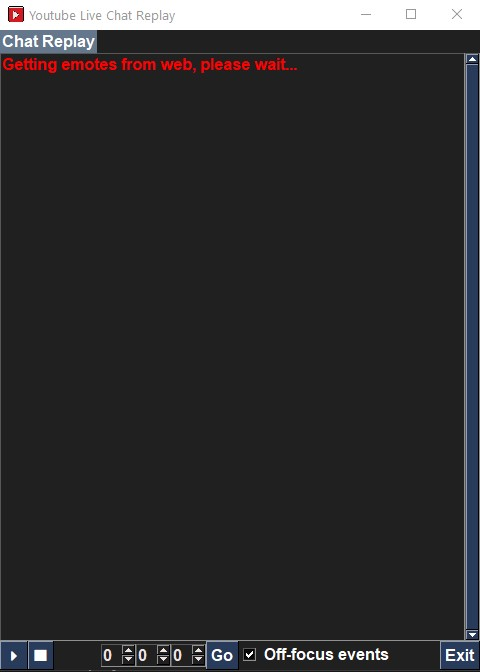
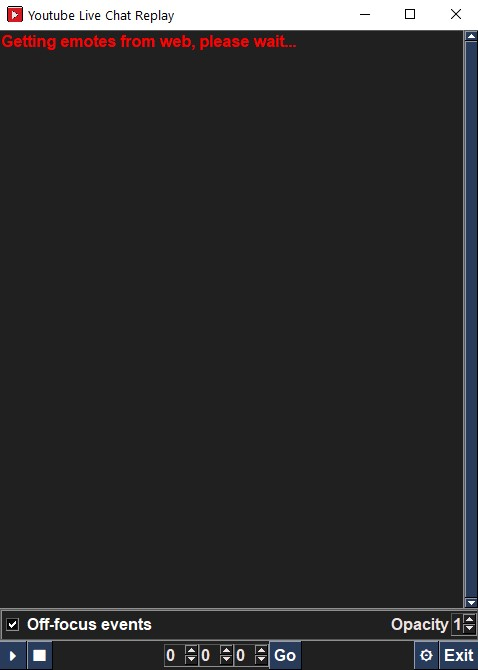
Changes:
- UI cleanup, more options, event listener and global flag variable refactoring.

- Removed the chat window title.

- Initial settings changes: Titlebar now enabled by default and highlight color changed to purple for visibility.

- Added options button and UI for off-focus events and opacity changes.

- New options for condensed chat and ignoring user messages, check the README.

- Refactored the leyboard event listener out of the gui.py module and improved the handling of the global flags required by having them in their own module as well.

- Restructured the code as needed due to the changes and updated documentation.

diff --git a/local/gui.py b/local/gui.py
@@ -8,31 +8,12 @@ import tkinter as tk
 
 import local.chat as chat
 import local.config as config
+import local.globals as globals
 import local.user_messages as user_messages
 
 from PIL.ImageTk import PhotoImage
 from pynput.keyboard import Key, Listener  # pip install pynput
 import PySimpleGUI as sg  # pip install PySimpleGUI
-
-
-key_event = False  # Global var used to track if the Play/Pause/Resume key was pressed, since GUI and event listener are in different threads.
-off_focus_events = True  # Global var used to turn on/off off-focus event listener.
-
-
-def on_press(key:str) -> None:
-    '''Modify the global variable "key_event" if the specified play/pause key is pressed.'''
-
-    global key_event
-    global off_focus_events
-    if key == Key.space and off_focus_events:
-        key_event = False if key_event else True
-
-
-def listen_kb() -> None:
-    '''Event listener for keyboard events. Needs to be in a separate thread to the GUI, so they can coexist.'''
-
-    with Listener(on_press=on_press) as listener:
-        listener.join()
 
 
 def get_icon():
@@ -55,7 +36,9 @@ def data_selection_window(settings:dict[str, str|int|tuple[int,int]|bool]) -> di
         "use local emotes": False,
         "emote dir path": None,
         "highlight users": False,
-        "user path": None
+        "user path": None,
+        "ignore users": False,
+        "ignore user path": None
     }
 
     layout = [
@@ -75,6 +58,12 @@ def data_selection_window(settings:dict[str, str|int|tuple[int,int]|bool]) -> di
                         enable_events=True, background_color=settings["BG_COLOR"]), 
             sg.Input("", readonly=True, key="-USER_PATH-", expand_x=True), 
             sg.Button("Browse", key="-BROWSE_USER_HIGHLIGHT-")
+        ],
+        [
+            sg.Checkbox("Ignore users in file:", key="-IGNORE_USERS-", 
+                        enable_events=True, background_color=settings["BG_COLOR"]), 
+            sg.Input("", readonly=True, key="-IGNORE_USER_PATH-", expand_x=True), 
+            sg.Button("Browse", key="-BROWSE_USER_IGNORE-")
         ],
         [sg.Button("Start"), sg.Push(background_color=settings["BG_COLOR"]), sg.Button("Exit")]
     ]
@@ -104,17 +93,26 @@ def data_selection_window(settings:dict[str, str|int|tuple[int,int]|bool]) -> di
                 if users_to_highlight:
                     data_window["-USER_PATH-"].update(users_to_highlight)
                     data["user path"] = Path(users_to_highlight)
+            case "-BROWSE_USER_IGNORE-":
+                users_to_ignore = sg.popup_get_file('', no_window= True, file_types=(("text file", "*.txt*"),))
+                if users_to_ignore:
+                    data_window["-IGNORE_USER_PATH-"].update(users_to_ignore)
+                    data["ignore user path"] = Path(users_to_ignore)
             case "-USE_LOCAL_EMOTES-":
                 data["use local emotes"] = True if values["-USE_LOCAL_EMOTES-"] else False
             case "-HIGHLIGHT_USERS-":
                 data["highlight users"] = True if values["-HIGHLIGHT_USERS-"] else False
+            case "-IGNORE_USERS-":
+                data["ignore users"] = True if values["-IGNORE_USERS-"] else False
             case "Start":
                 if data["json path"] is None:
                     user_messages.one_line_error_handler("Please specify the JSON file path.", settings)
                 elif data["use local emotes"] and data["emote dir path"] is None:
                     user_messages.one_line_error_handler("Please specify the emote directory.", settings)
                 elif data["highlight users"] and data["user path"] is None:
-                    user_messages.one_line_error_handler("Please specify the username file.", settings)
+                    user_messages.one_line_error_handler("Please specify the highlight username file.", settings)
+                elif data["ignore users"] and data["ignore user path"] is None:
+                    user_messages.one_line_error_handler("Please specify the ignore username file.", settings)
                 else:
                     data["exit"] = False
                     break
@@ -144,13 +142,21 @@ def display_chat(chat_window:sg.Multiline,
         if usernames_to_highlight:
             if comment[1] in usernames_to_highlight:
                 bg_color = settings["HIGHLIGHT_USER_BG_COLOR"]
-
-        chat_window.update(f"{comment[0]:<12} ", append=True, 
-                        text_color_for_value=settings["TIMESTAMP_COLOR"], 
-                        background_color_for_value=bg_color)
-        chat_window.update(f"{comment[1]}\n", append=True, 
+        if settings["SHOW_TIMESTAMP"]:
+            chat_window.update(f"{comment[0]:<12} ", append=True, 
+                            text_color_for_value=settings["TIMESTAMP_COLOR"], 
+                            background_color_for_value=bg_color)
+        chat_window.update(f"{comment[1]}:", append=True, 
                         text_color_for_value=settings["USERNAME_COLOR"], 
                         background_color_for_value=bg_color)
+        if settings["CONDENSED"]:
+            chat_window.update(" "*5, append=True, 
+                            text_color_for_value=settings["TEXT_COLOR"], 
+                            background_color_for_value=settings["BG_COLOR"])
+        else:
+            chat_window.update("\n", append=True, 
+                            text_color_for_value=settings["TEXT_COLOR"], 
+                            background_color_for_value=settings["BG_COLOR"])
         for message_type, message_content in comment[2]:
             if message_type == "emoji":
                 emote_img = message_content
@@ -170,9 +176,10 @@ def display_chat(chat_window:sg.Multiline,
         chat_window.update("\n", append=True, 
                         text_color_for_value=settings["TEXT_COLOR"], 
                         background_color_for_value=bg_color)
-        chat_window.update("\n", append=True, 
-                        text_color_for_value=settings["TEXT_COLOR"], 
-                        background_color_for_value=settings["BG_COLOR"])
+        if not settings["CONDENSED"]:
+            chat_window.update("\n", append=True, 
+                            text_color_for_value=settings["TEXT_COLOR"], 
+                            background_color_for_value=settings["BG_COLOR"])
 
 
 def main_window() -> None:
@@ -187,13 +194,19 @@ def main_window() -> None:
     playing = False
     paused_timestamp = None # timedelta(hours=0, minutes=2,seconds=55)
     
+    if data["ignore users"]:
+        with open(data["ignore user path"], "r") as file:
+            usernames_to_ignore = [user[:-1] if user.endswith("\n") else user for user in file.readlines()]
+    else:
+        usernames_to_ignore = []
+
     emote_link_dict = {}
     if data["use local emotes"]:
         local_emote_list = list(data["emote dir path"].glob("*.png"))
         local_emote_names = [emote.name[:-4] for emote in local_emote_list]
-        comments = chat.get_comments(data["json path"], emote_link_dict, local_emote_names)
+        comments = chat.get_comments(data["json path"], emote_link_dict, local_emote_names, usernames_to_ignore)
     else: 
-        comments = chat.get_comments(data["json path"], emote_link_dict)
+        comments = chat.get_comments(data["json path"], emote_link_dict, usernames_to_ignore=usernames_to_ignore)
 
     if data["highlight users"]:
         with open(data["user path"], "r") as file:
@@ -213,9 +226,21 @@ def main_window() -> None:
                 return name
 
     layout = [
-        [sg.Text("Chat Replay")],
         [Multiline("", expand_x=True, expand_y=True, background_color=settings["BG_COLOR"], 
                     text_color= settings["TEXT_COLOR"], autoscroll=True, write_only=True, disabled=True, key="-CHAT-")],
+        [sg.pin(sg.Frame("",[
+            [
+                sg.Checkbox("Off-focus events", key="-OFF_FOCUS_EVENTS-", 
+                            default=True, enable_events=True, background_color=settings["BG_COLOR"]),
+                sg.Push(background_color=settings["BG_COLOR"]),
+                sg.Text("Opacity", background_color=settings["BG_COLOR"], text_color=settings["TEXT_COLOR"]),
+                sg.Spin([i/100 for i in range(5,101) if not i%5], settings["ALPHA"],
+                        enable_events=True, 
+                        background_color=settings["BG_COLOR"],
+                        text_color=settings["TEXT_COLOR"],
+                        key="-OPACITY-")
+            ]], key="-SETTINGS-", expand_x=True, background_color=settings["BG_COLOR"], visible=False), expand_x=True)
+        ],
         [
             sg.Button("⏵", key="-PLAY_PAUSE-"), sg.Button("⏹", key="-STOP-"), 
             sg.Push(background_color=settings["BG_COLOR"]),
@@ -226,9 +251,9 @@ def main_window() -> None:
             sg.Spin([i for i in range(60)], initial_value=0, size=(2,1), 
                     background_color=settings["BG_COLOR"], text_color=settings["TEXT_COLOR"], key="-SEC-"), 
             sg.Button("Go"),
-            sg.Checkbox("Off-focus events", key="-OFF_FOCUS_EVENTS-", 
-                        default=True, enable_events=True, background_color=settings["BG_COLOR"]),
-            sg.Push(background_color=settings["BG_COLOR"]), sg.Button("Exit")
+            sg.Push(background_color=settings["BG_COLOR"]),
+            sg.Button("⚙", key="-OPEN_SETTINGS-"), sg.Button("Exit")
+
         ]
     ]
 
@@ -269,11 +294,10 @@ def main_window() -> None:
 
     while True:
 
-        global key_event
-        if key_event:
+        if globals.key_event:
             event = "-PLAY_PAUSE-"
             _, values = window.read(timeout=250)
-            key_event = False
+            globals.key_event = False
         else:
             event, values = window.read(timeout=250)
         
@@ -295,7 +319,7 @@ def main_window() -> None:
 
             comment_deque = chat.get_chat(comments, comment_deque, chat_timestamp)
             display_chat(chat_window, comment_deque, emote_images, settings, usernames_to_highlight)
-                
+
         match event:
             case sg.WIN_CLOSE_ATTEMPTED_EVENT | "Exit":
                 break
@@ -340,6 +364,13 @@ def main_window() -> None:
                                     text_color_for_value=settings["NOTIFICATION_COLOR"], 
                                     background_color_for_value=settings["BG_COLOR"])
             case "-OFF_FOCUS_EVENTS-":
-                global off_focus_events
-                off_focus_events = True if values["-OFF_FOCUS_EVENTS-"] else False
+                globals.off_focus_events = True if values["-OFF_FOCUS_EVENTS-"] else False
+            case "-OPACITY-":
+                window.set_alpha(values["-OPACITY-"])
+            case "-OPEN_SETTINGS-":
+                if window["-SETTINGS-"].visible:
+                   window["-SETTINGS-"].update(visible=False)
+                else:
+                    window["-SETTINGS-"].update(visible=True)
+
     window.close()

diff --git a/local/chat.py b/local/chat.py
@@ -75,7 +75,8 @@ def determine_message_segment(emote_link_dict:dict[str,str],
 
 def get_comments(filepath:str|Path, 
                  emote_link_dict:dict[str,str], 
-                 emote_names:list[str] = []) -> dict[str, list[tuple[str,str,tuple[str,str]]]]:
+                 emote_names:list[str] = [],
+                 usernames_to_ignore:list[str] = []) -> dict[str, list[tuple[str,str,tuple[str,str]]]]:
     '''Get a dictionary of all comments with the timestamp as key, and a list of tuples as value.
     The values contain the timestamp, author of the message and the message as a tuple.
     The message tuple contains the message type (text, emoji, etc.) and the message content.
@@ -105,14 +106,21 @@ def get_comments(filepath:str|Path,
         message_type = ""
 
         if "liveChatTextMessageRenderer" in item:  # Normal chat.
-            message_type = "text"
             source = item["liveChatTextMessageRenderer"]
+            author = source["authorName"]["simpleText"]
+            if author in usernames_to_ignore:
+                continue
+            message_type = "text"
+
             message_list = source["message"]["runs"]
             timestamp = format_timestamp(source["timestampText"]["simpleText"])
-            author = source["authorName"]["simpleText"]
         elif "liveChatMembershipItemRenderer" in item:  # Member.
-            message_type = "membership"
             source = item["liveChatMembershipItemRenderer"]
+            author = source["authorName"]["simpleText"]
+            if author in usernames_to_ignore:
+                continue
+            message_type = "membership"
+
             if "headerPrimaryText" in source:
                 message_list = source["headerPrimaryText"]["runs"]
                 if "message" in source:
@@ -120,23 +128,29 @@ def get_comments(filepath:str|Path,
             else:
                 message_list = source["headerSubtext"]["runs"]
             timestamp = format_timestamp(source["timestampText"]["simpleText"])
-            author = source["authorName"]["simpleText"]
+
         elif "liveChatPaidMessageRenderer" in item:  # Superchat.
-            message_type = "superchat"
             source = item["liveChatPaidMessageRenderer"]
+            author = source["authorName"]["simpleText"]
+            if author in usernames_to_ignore:
+                continue
+            message_type = "superchat"
             amount = source["purchaseAmountText"]["simpleText"]
             timestamp = format_timestamp(source["timestampText"]["simpleText"])
-            author = source["authorName"]["simpleText"]
             try:
                 message_list = source["message"]["runs"]
             except KeyError:
                 message_list = []
         elif "liveChatSponsorshipsGiftPurchaseAnnouncementRenderer" in item:  # Gifted memberships, no text timestamp...
-            message_type = "membership"
             source = item["liveChatSponsorshipsGiftPurchaseAnnouncementRenderer"]
+            author = source["header"]["liveChatSponsorshipsHeaderRenderer"]["authorName"]["simpleText"]
+            if author in usernames_to_ignore:
+                continue
+            message_type = "membership"
             timestamp = int(line["replayChatItemAction"]["videoOffsetTimeMsec"]) // 1000
             timestamp = format_timestamp(str(dt.fromtimestamp(timestamp) - dt.fromtimestamp(0)))
-            author = source["header"]["liveChatSponsorshipsHeaderRenderer"]["authorName"]["simpleText"]
+           
+
             message_list = source["header"]["liveChatSponsorshipsHeaderRenderer"]["primaryText"]["runs"]
         else:
             # counter += 1

diff --git a/local/config.py b/local/config.py
@@ -21,11 +21,13 @@ def load_settings() -> dict[str, str|int|tuple[int,int]|bool]:
         "HIGHLIGHT_USER_BG_COLOR": "grey",
         "EMOTE_SIZE" : (24, 24),
         "CHAT_LENGTH" : 30,  # Reducing this increases performance.
-        "DISABLE_TITLEBAR" : True,  # If True, then no window resizing after running the app.
+        "DISABLE_TITLEBAR" : False,  # If True, then no window resizing after running the app.
         "WINDOW_SIZE" : (480, 640),  # If 'DISABLE_TITLEBAR' is True, set the window size (width, height).
         "TRANSPARENT" : False,
         "ALPHA" : 0.7,  # Change to 1 or None if TRANSPARENT is True.
-        "OFF_FOCUS_EVENTS": True
+        "OFF_FOCUS_EVENTS": True,
+        "CONDENSED": True,  # Limits the empty lines in the chat window. 
+        "SHOW_TIMESTAMP": False  # Whether to show timestamp next to username.
     }
 
     current_directory = Path(__file__).parent if "__file__" in locals() else Path.cwd()

diff --git a/local/listener.py b/local/listener.py
@@ -1,0 +1,17 @@
+import local.globals as globals
+
+from pynput.keyboard import Key, Listener  # pip install pynput
+
+
+def on_press(key:str) -> None:
+    '''Modify the global variable "key_event" if the specified play/pause key is pressed.'''
+
+    if key == Key.space and globals.off_focus_events:
+        globals.key_event = False if globals.key_event else True
+
+
+def listen_kb() -> None:
+    '''Event listener for keyboard events. Needs to be in a separate thread to the GUI, so they can coexist.'''
+
+    with Listener(on_press=on_press) as listener:
+        listener.join()

diff --git a/main.py b/main.py
@@ -39,7 +39,7 @@ def main() -> None:
     '''Main function.'''
     
     threading.Thread(target=local.gui.main_window).start()
-    threading.Thread(target=local.gui.listen_kb, daemon=True).start() 
+    threading.Thread(target=local.listener.listen_kb, daemon=True).start() 
 
 
 if __name__ == "__main__":

diff --git a/local/globals.py b/local/globals.py
@@ -1,0 +1,2 @@
+key_event = False  # Global var used to track if the Play/Pause/Resume key was pressed, since GUI and event listener are in different threads.
+off_focus_events = True  # Global var used to turn on/off off-focus event listener.

diff --git a/local/__init__.py b/local/__init__.py
@@ -2,3 +2,5 @@ from .chat import *
 from .config import *
 from .gui import *
 from .user_messages import *
+from .globals import *
+from .listener import *

diff --git a/README.md b/README.md
@@ -28,11 +28,11 @@ Instructions for Windows:
 
 ## How to use
 
-The first window you will see is where you can select the chat JSON file, and optionally the directory containing the emotes, as well as the file containing the usernames to highlight. If you want to use any of those two optional features, please make sure to also check the box next to each one.
+The first window you will see is where you can select the chat JSON file, and optionally the directory containing the emotes, the file containing the usernames to highlight (`.txt`, one username per line), as well as the file containing the usernames to ignore(`.txt`, one username per line). If you want to use any of those three optional features, please make sure to also check the box next to each one.
 
 <div align="center"><img src="images/data.jpg" alt="Something_went_wrong.jpg" style="margin: 2em 0;"></div>
 
-After selecting all the data you need and want, press the `Start` button. Depending on the size of the JSON file and the amount of emotes, it might take some time for the app to become responsive, so please wait for a bit. This is the window that appears after pressing `Start`:
+After selecting all the data you need and want, press the `Start` button. Depending on the size of the JSON file and the amount of emotes, it might take some time for the app to become responsive depending on the size of the chat file and the amount of emotes that need to be downloaded, so please wait for a bit. This is the window that appears after pressing `Start`:
 
 <div align="center"><img src="images/chat.jpg" alt="Something_went_wrong.jpg" style="margin: 2em 0;"></div>
 
@@ -42,7 +42,10 @@ Next to the play button is the `Stop` button, used to reset the playback to zero
 
 The three input fields to the right of the `Stop` button represent the `hours`, `minutes` and `seconds` of the current playback timestamp. If you want you can edit them and press the `Go` button to jump to a specific timestamp (Note: if the timestamp selected this way is longer than the last chat timestamp, then playback will continue with no new messages appearing, so please keep in mind to stay within the limits).
 
-Next to the `Go` button is a checkbox with the option for the chat window to receive [off-focus events](#off-focus-startpauseresume).
+
+At the far right you will find the `Exit` button to quit the app, and to it's left the `Settings` button. Pressing the `Settings` button opens a small area between the chat window and the controls at the bottom, where you can update some settings on the go.
+
+ In the settings area you will find the checkbox `Off-focus events`, allowing the chat window to receive [off-focus events](#off-focus-startpauseresume), as well as an `Opacity` spin element, allowing you to modify the opacity of the window while it's running. Please refer to the [Settings](#settings) section for all available settings.
 
 ## Notable features
 
@@ -68,14 +71,16 @@ You can find several settings in the `settings.json` file. Here are the settings
 - `"BG_COLOR": "#202020"`: The default background color used.
 - `"MEMBER_BG_COLOR": "blue"`: The background color used for the display of membership notifications and membership messages.
 - `"SUPERCHAT_BG_COLOR": "green"`: The background color used for the display of superchat messages.
-- `"HIGHLIGHT_USER_BG_COLOR": "grey"`: The background color used for the display of highlighted user messages.
+- `"HIGHLIGHT_USER_BG_COLOR": "purple"`: The background color used for the display of highlighted user messages.
 - `"EMOTE_SIZE": [24,24]`: The size of the emotes displayed.
 - `"CHAT_LENGTH": 30`: The maximum amount of messages retained in the chat window. Reducing this increases performance.
-- `"DISABLE_TITLEBAR": true`: Whether or not to disable the titlebar of the chat window, to avoid having the solid white titlebar. If set to true (default), then the chat window cannot be resized, in which case you can use:
+- `"DISABLE_TITLEBAR": false`: Whether or not to disable the titlebar of the chat window, to avoid having the solid white titlebar. If set to true (default), then the chat window cannot be resized, in which case you can use:
 - `"WINDOW_SIZE" : (480, 640)`: Used to set the size of the window in the format `(width, height)` if the titlebar is disabled.
 - `"TRANSPARENT" : false`: Whether to make the chat window fully transparent. This option makes it difficult to move the chat around, a different option is:
 - `"ALPHA": 0.7`: The opacity of the chat window, with a value between 0 (fully transparent) and 1 (fully opaque). The disadvantage with this option is that the text also becomes transparent along with the window, so the value should not be too low. If you select `"TRANSPARENT" : true`, please set this value to 1.
 - `"OFF_FOCUS_EVENTS": true`: Whether the app should receive the `space` keyboard event in order to play/pause/resume the chat playback when the chat window is not in focus.
+- `"CONDENSED": true`: When set to true, minimizes the empty space allowed in the chat window (removes empty lines after username and bewteen each chat message).
+- `"SHOW_TIMESTAMP": false`: Whether or not to show the timestamp of the chat message next to the username.
 
 
 ## Thank you and enjoy!
